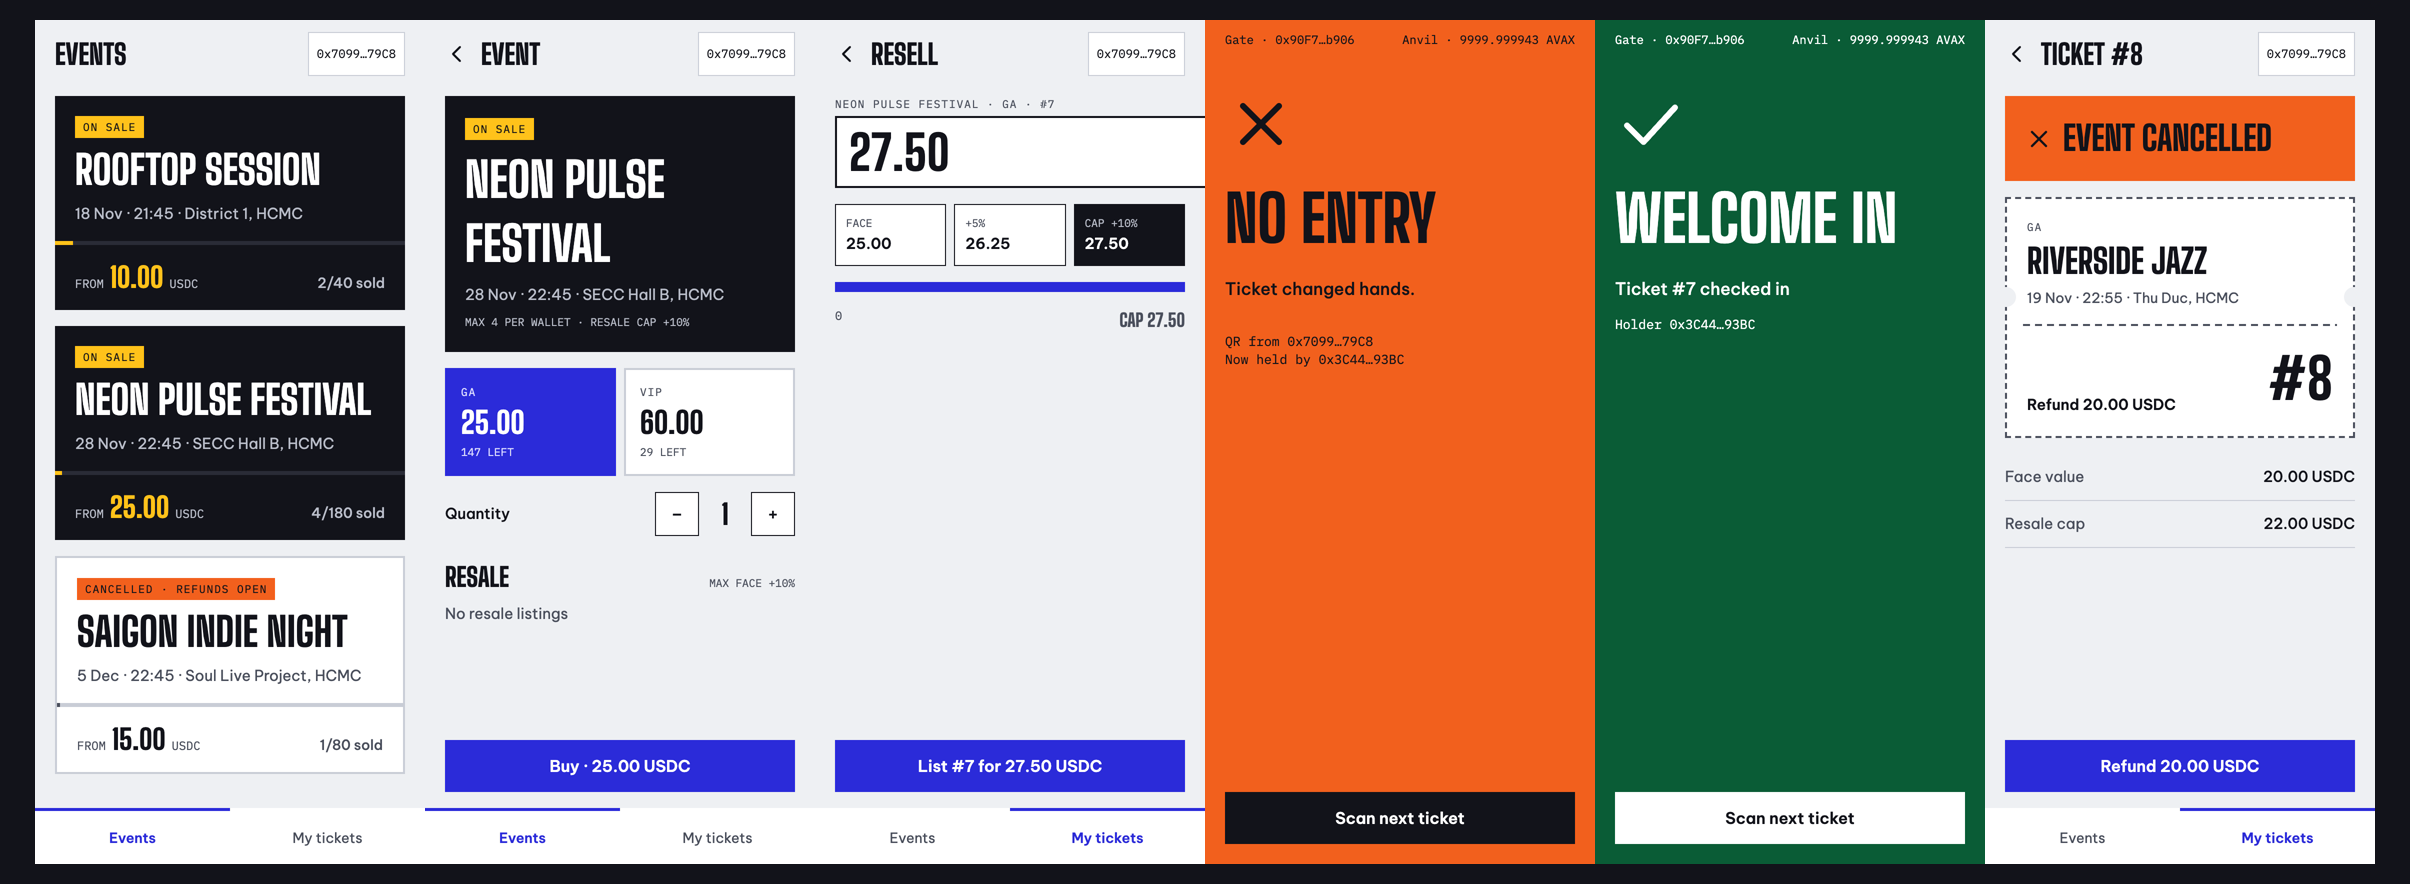
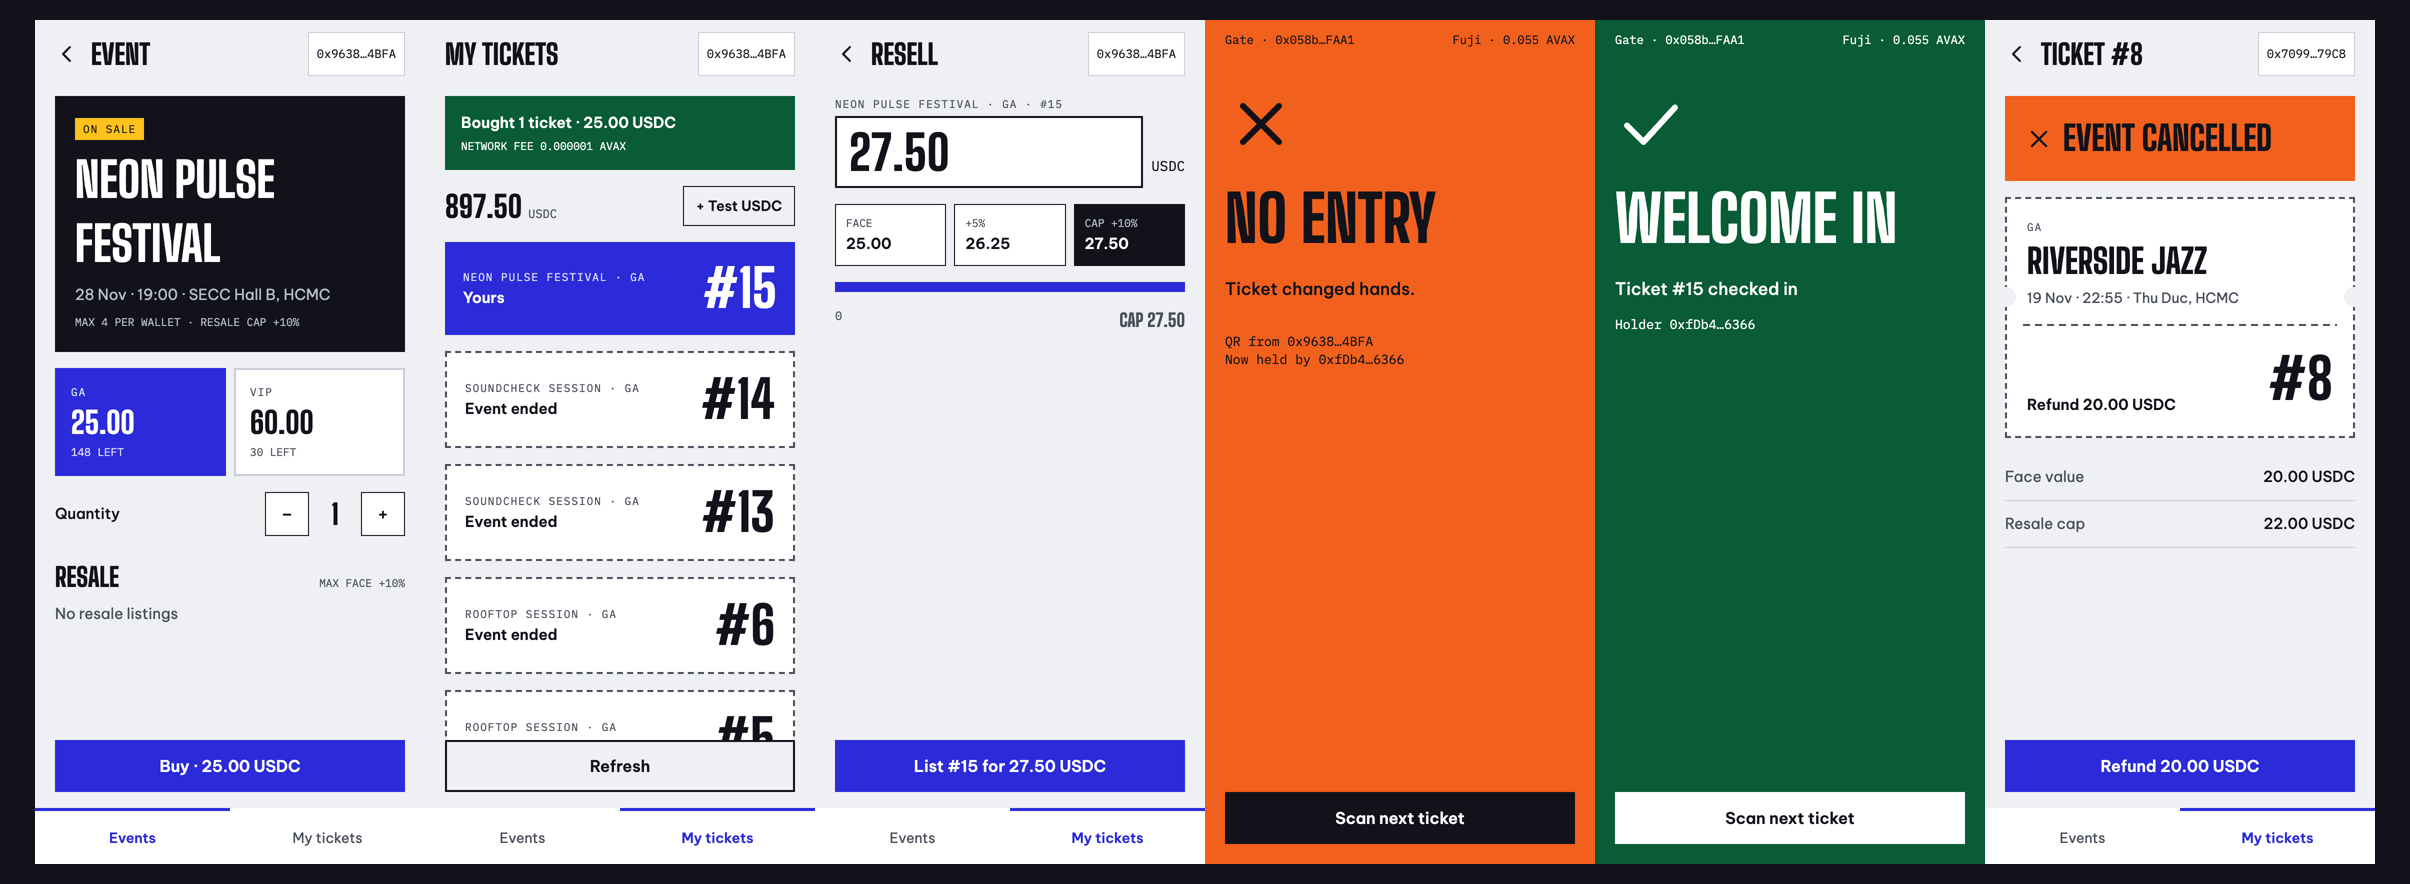
docs: Fuji cancel/refund/settle transactions, console screenshot, test counts

diff --git a/README.md b/README.md
@@ -4,9 +4,13 @@ Concert tickets in Vietnam get resold at 3 to 5 times face value. Here every tic
 
 Live on Avalanche Fuji. Built for Team1 Vietnam UniHack 2026, topic 9 "Capped-resale NFT tickets with yielding float".
 
-![App screens: events, checkout, resale price capped at +10 %, old QR refused at the gate, entry, refund after cancel](docs/img/app-screens.png)
+![App screens: event with tiers, purchase receipt, resale price capped at +10 %, old QR refused at the gate, entry, refund after cancel](docs/img/app-screens.png)
 
 <img src="docs/img/app-flow.gif" width="300" alt="Buy, resell, gate check-in and refund in the mobile app">
+
+![Organizer console: checked-in count, ticket wall, float in escrow with mock yield, resale stats, activity](docs/img/console-overview.png)
+
+The first five app screens are from Fuji. The refund screen, the GIF and the console screenshot are from the local chain; the same build runs against Fuji.
 
 ## Live on Fuji (chain 43113)
 
@@ -16,7 +20,7 @@ Live on Avalanche Fuji. Built for Team1 Vietnam UniHack 2026, topic 9 "Capped-re
 | FloatVault (escrow, mock yield) | [`0x1b55bc51999057b46b65df6b2f7b93254d2aff2e`](https://testnet.snowtrace.io/address/0x1b55bc51999057b46b65df6b2f7b93254d2aff2e) | yes |
 | MockUSDC (test token, 6 decimals, faucet) | [`0x36ab0ba0c58bcfd329bc105542faf376c43214aa`](https://testnet.snowtrace.io/address/0x36ab0ba0c58bcfd329bc105542faf376c43214aa) | yes |
 
-Deployed at block 61289451 by the organizer wallet `0xA52C09A9F0E0Dc256a2454934782468880226FB2` ([deploy tx](https://testnet.snowtrace.io/tx/0x2d4e4e9cc2a3b1d3f46e583ee9abe2c82eb15b682b97229dea925eb14a968d72)). Demo events on chain: `0` Neon Pulse Festival (GA 25 USDC / VIP 60 USDC, max 4 per wallet), `1` Saigon Indie Night, `2` Rooftop Session (already ended, used to show settlement).
+Deployed at block 61289451 by the organizer wallet `0xA52C09A9F0E0Dc256a2454934782468880226FB2` ([deploy tx](https://testnet.snowtrace.io/tx/0x2d4e4e9cc2a3b1d3f46e583ee9abe2c82eb15b682b97229dea925eb14a968d72)). Events on chain: `0` Neon Pulse Festival (GA 25 USDC / VIP 60 USDC, max 4 per wallet), `1` Saigon Indie Night, `2` Rooftop Session (ended, not settled yet), `3` Hanoi Lantern Night (cancelled and refunded), `4` Soundcheck Session (ended and settled).
 
 Measured on Fuji on 18 Nov 2026 with [`measure.mjs`](scripts/measure.mjs) (time = send to receipt, including RPC polling):
 
@@ -28,6 +32,18 @@ Measured on Fuji on 18 Nov 2026 with [`measure.mjs`](scripts/measure.mjs) (time 
 | Gate check-in | [0x0e85…6ea8](https://testnet.snowtrace.io/tx/0x0e850b79af6996b61c4d1f12331aaf9730cf310e4dbce1deed575da619166ea8) | 52,743 | 2.6 s | 0.000000000008 AVAX | 0.0004 AVAX |
 
 \* gas × 7.5 gwei, the price `eth_gasPrice` returned on `api.avax.network` on 18 Nov 2026. Fuji's base fee was a few wei that day, so the Fuji column is not a realistic cost.
+
+Cancel, refund and settlement were also run on Fuji (18 Nov 2026):
+
+| Step | Tx | Result |
+|---|---|---|
+| Guest A buys 2, Guest B buys 1 for event 3 (20 USDC each) | [0xb8b0…2b35](https://testnet.snowtrace.io/tx/0xb8b09d87806e5c33bbf7204067bfad41e6cb5084ef9a96ef4185cb564bff2b35), [0x5838…bb81](https://testnet.snowtrace.io/tx/0x58389589b1f9c4e0f4ad030a336ce8311bb1816bc5189b20eb9230f8db52bb81) | 60 USDC in the vault |
+| Organizer cancels event 3 | [0x1c1f…90b0](https://testnet.snowtrace.io/tx/0x1c1f8db91b5f48199e9ae601534badd66bf77d85d688804f152faf5a2aac90b0) | sales, listings and check-in now revert |
+| `refundMany([10, 11, 12])` | [0xe9c9…0836](https://testnet.snowtrace.io/tx/0xe9c9d87416df7c36994f8e00b4c00f83f4cb0ae8377e91aeb9a0e414833e0836) | A +40 USDC, B +20 USDC, tickets burned, 168,779 gas for 3 refunds |
+| Guest A buys 2 for event 4 (10 USDC each), event ends | [0x8946…1394](https://testnet.snowtrace.io/tx/0x894601f979651f2186f805bde68986cfac17bc5e4024b08c06fe0d3769991394) | 20 USDC in the vault |
+| Organizer settles event 4 | [0xb2e3…b846](https://testnet.snowtrace.io/tx/0xb2e3d7db3eede8f5cb31c7b4721eeffb681ee742121f9ef504bdae2624d5b846) | organizer receives 20.000003 USDC (principal + mock yield) |
+
+A direct `transferFrom` between two holders reverts with `TransferBlocked()` (selector `0xf90e674a`); check it with `cast call 0x9516fd269065a17ffd5004df8141373a84161d6e 'transferFrom(address,address,uint256)' 0xfDb413E342dF83411B96aE9B34a3FDC426A76366 0x9638F49A3cB7c002779724b427905F6Ab1D54BFA 0 --from 0xfDb413E342dF83411B96aE9B34a3FDC426A76366 --rpc-url https://avalanche-fuji-c-chain-rpc.publicnode.com`.
 
 ## What it does
 
@@ -103,7 +119,8 @@ Against Fuji: `cd app && ENV_FILE=.env.fuji npm run web` and `cd admin && npx vi
 | Contracts | `forge test` | 32 (1 fuzz) | every money path: USDC into the vault, wallet limit, tier supply, permit purchase, transfer block, cap (fuzzed), resale payment, price-change guard, check-in by current holder only, replay, cancel → refunds to the current holder, comps refund 0, settle after end with yield, settle after cancel takes yield only, vault access control, event isolation |
 | App chain layer | `cd app && npm test` | 38 (11 against a real anvil) | permit checkout, cap refused before signing, resale pays the seller, old QR → `OwnerChanged`, single entry, refund, faucet cooldown, race for the last ticket, journal recovery (pending, rebroadcast, unknown, nonce reuse), QR expiry rules, formatting |
 | App end to end | `cd app && npm run e2e` | 3 | Chrome at 390×844 on Expo web: buy → resell → resale buy → old QR refused → entry → replay refused; cancel → refund; faucet cooldown |
-| Console | `cd admin && npm test && npm run e2e` | see `admin/` | login, create event, comps, gate staff, cancel + refund all, settle |
+| Console logic | `cd admin && npm test` | 24 | formatting, error mapping, event status, ticket wall, CSV, resale stats, yield projection, form validation, login, log index against a real anvil |
+| Console end to end | `cd admin && npm run e2e` | 12 | Chrome with an injected test wallet on anvil: login, create event, comps, gate staff, sales showing in float and activity, cancel + refund all (buyer balances back exactly), settle after the event ends |
 
 ## Limits and roadmap
 
